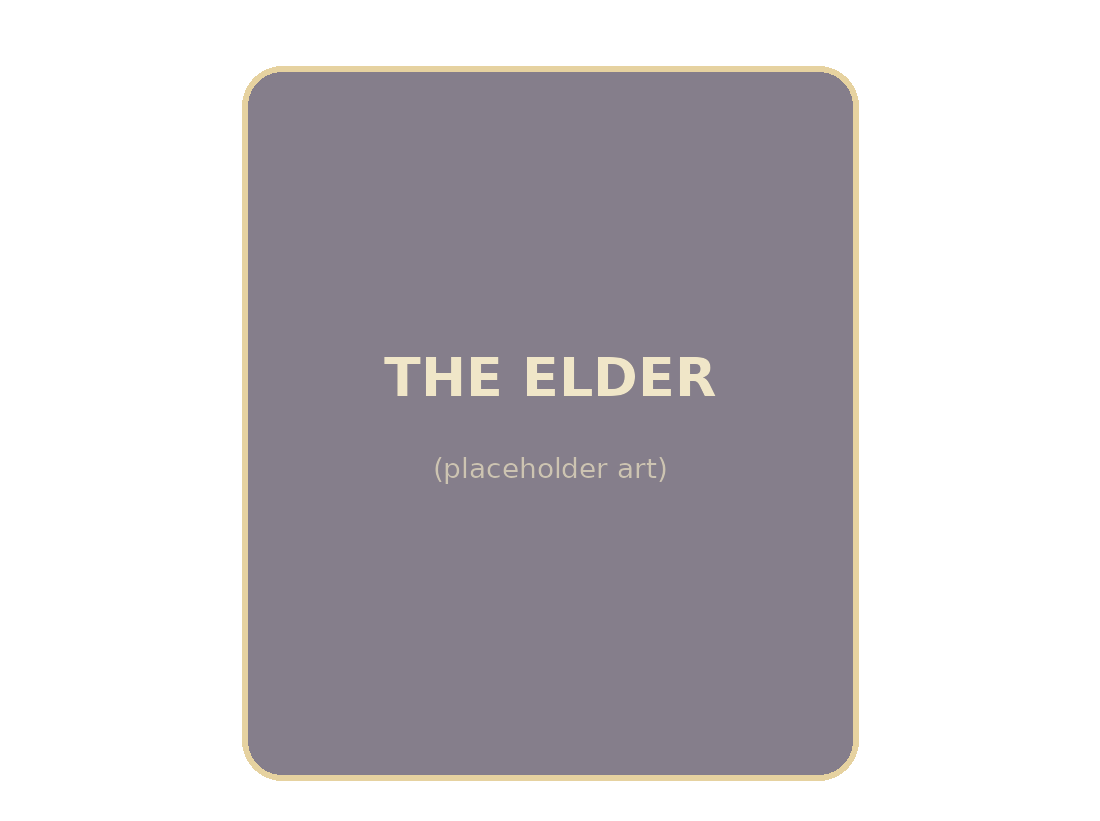
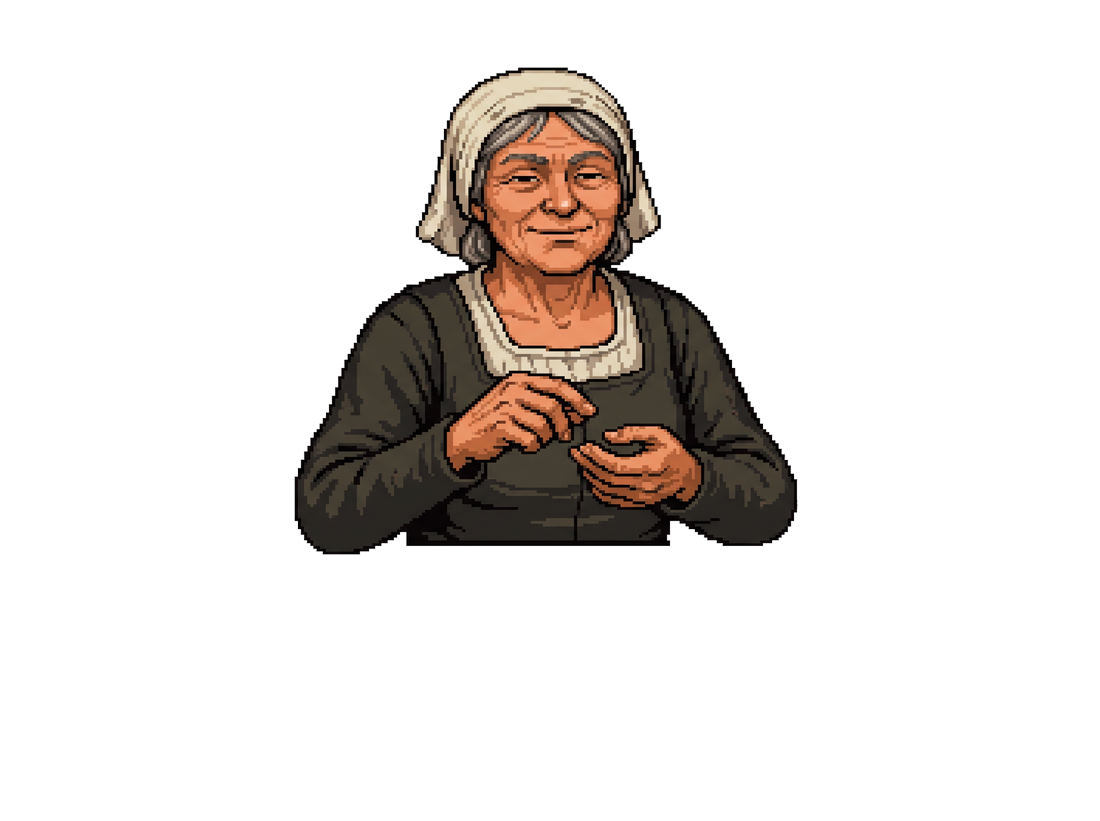
Replace Tactician/Gambler/Elder placeholder art with real portraits
Source: AI-generated art (Gemini) supplied by the project owner, three
newest files in ~/Downloads matched to characters by content (elderly
woman examining dice -> Elder, feathered cap and lucky charm -> Gambler,
weathered chin-stroking strategist -> Tactician).

Processing, identical for all three:
1. White background removed via a 4px feathered alpha transition
   (distance-transform-based, not a hard chroma-key cutout), verified
   against a checkerboard composite -- clean edges, no white fringing.
2. Each character's content bounding box rescaled to the AVERAGE content
   bbox measured across the six existing real portraits, so the new
   characters sit at a consistent scale/position relative to the rest of
   the cast under .character-layer's background-size:100% 100% stretch.
3. Recompressed losslessly with the same zopfli pipeline as the Phase 14
   asset work (pixel-identical, verified).

Confirmed via real browser screenshots of the actual game page (not just
the isolated PNGs) for all three personas -- natural positioning, correct
scale, clean integration with the tavern scene background, labels read
correctly (The Elder / The Gambler / The Tactician).

diff --git a/ROADMAP.md b/ROADMAP.md
@@ -561,10 +561,18 @@ name mismatch: this persona is a cold, exact, score-tracking optimizer, the oppo
 superstition/myth associations "Gambler" carries (gambler's fallacy, hot-hand fallacy). "Gambler"
 was left open for a future myth-driven persona instead -- see Phase 12.
 
-Portrait is a placeholder (`assets/characters/tactician.png`, plain text label, not real art) by
-explicit agreement with the project owner, who will supply real art later on this feature branch.
+Portrait was a placeholder (plain text label, not real art) pending the project owner's own art,
+by explicit agreement, while built on branch `feature/gambler-race-aware` rather than master.
 
-Built on branch `feature/gambler-race-aware`, not master, by explicit instruction, pending that art.
+**Art delivered (2026-10-12)**: real portrait (AI-generated via Gemini, processed into the site's
+asset format) replaced the placeholder. Processing pipeline, reused identically for all three new
+personas' art: background removed via a 4px feathered alpha transition (distance-transform-based,
+not a hard chroma-key cutout, matching how the existing cast's own edges look), then the detected
+character-content bounding box was rescaled to the AVERAGE content bbox measured across the six
+existing real portraits (so the new characters sit at a consistent scale/position relative to the
+rest of the cast when rendered through `.character-layer`'s `background-size:100% 100%` stretch),
+then recompressed losslessly with the same zopfli pipeline as Phase 14 (pixel-identical, verified).
+Confirmed in situ via a real browser screenshot of the actual game page, not just the isolated PNG.
 
 ## Phase 11 (future, not scheduled): Loaded-dice bias measurement
 
@@ -713,8 +721,9 @@ single highest-value combo; the differentiator is entirely the continue/stop cal
 names this explicitly as a known cognitive bias, not a real strategy: "believes a hot streak means
 more luck is coming -- a well-known superstition, not real odds -- and pushes his luck exactly
 when he should bank." No new embedded data (the escalating threshold is a pure formula on the
-existing DP.thresholds table), so this added effectively zero page weight on its own. Portrait is
-a placeholder pending the project owner's own art, same as the Tactician.
+existing DP.thresholds table), so this added effectively zero page weight on its own. Portrait was
+a placeholder, replaced 2026-10-12 with real art -- see Phase 10's note for the processing pipeline
+(same one used for all three new personas' art).
 
 ## Phase 13: "The Elder" -- near-optimal play with misread dice
 
@@ -812,7 +821,10 @@ winning. Flavor text and in-game "reveal" messages were written to be factual an
 character is introduced by its decades of *expert* play, with the vision limitation stated as an
 ordinary fact alongside that, not a punchline; the reveal line itself ("He reaches for X -- a
 closer look says otherwise, and he banks Y instead.") is neutral and matter-of-fact, describing a
-correction, not mocking a mistake. Portrait is a placeholder pending the project owner's own art.
+correction, not mocking a mistake. Portrait was a placeholder, replaced 2026-10-12 with real art
+depicting a woman rather than a third old man (the cast was all-male; this also sidesteps reading
+as a redundant third variation on the Scholar/Priest's already-elderly look) -- see Phase 10's note
+for the processing pipeline.
 
 ## Phase 14: Lossless asset recompression (page weight)
 
